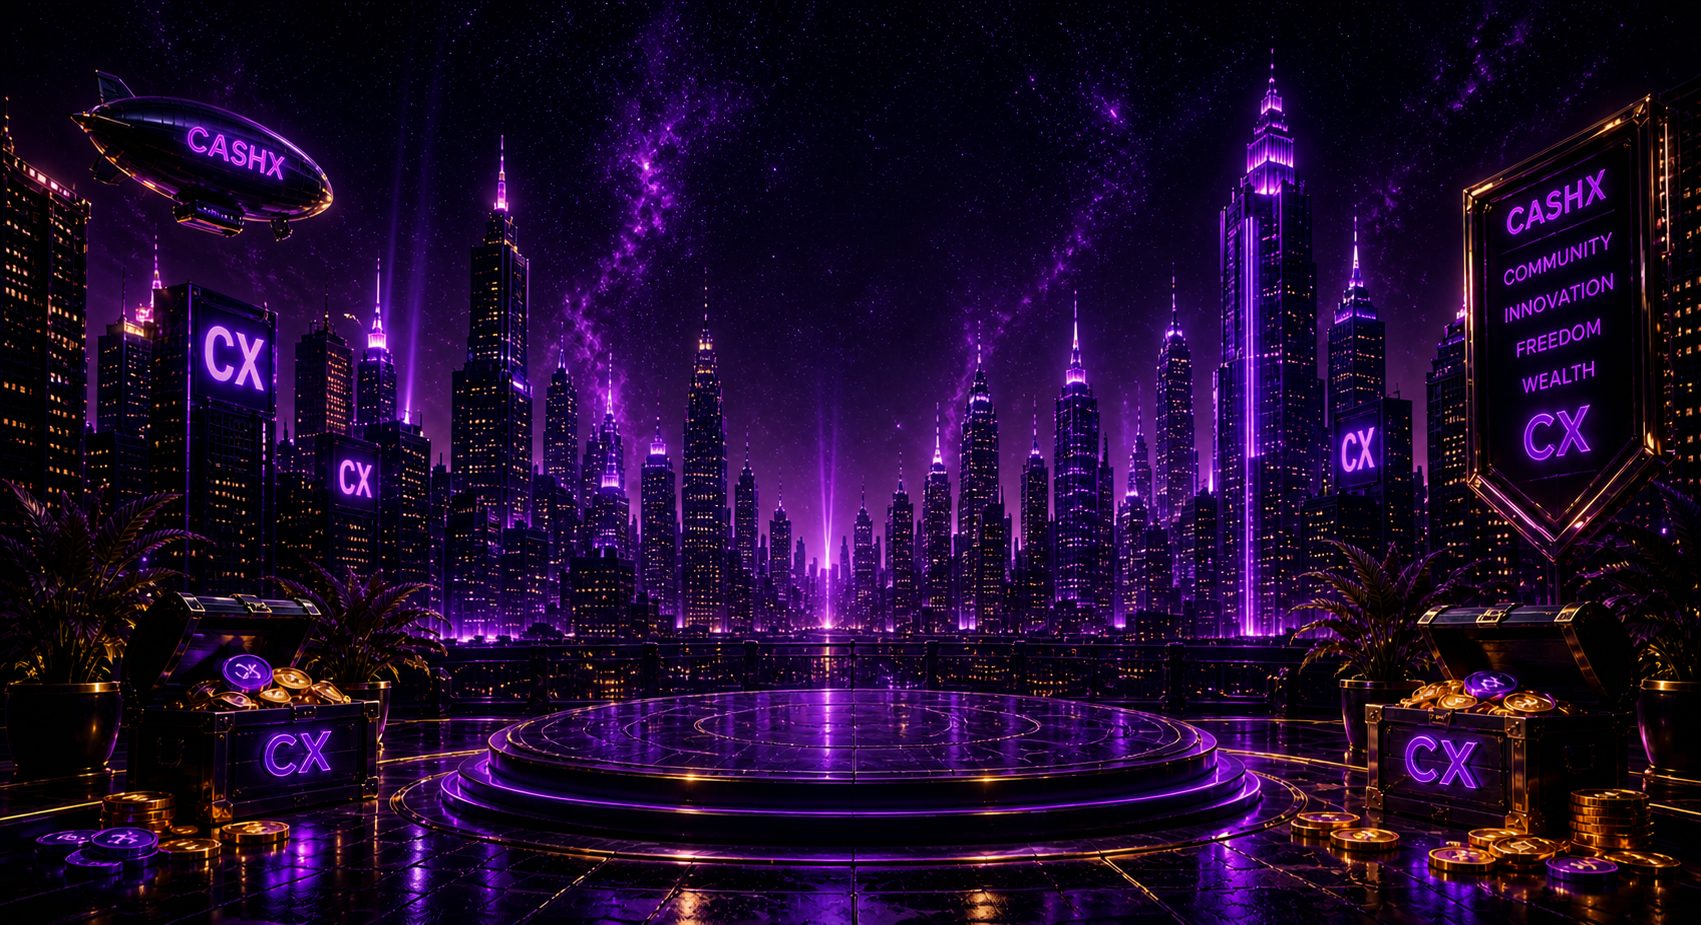
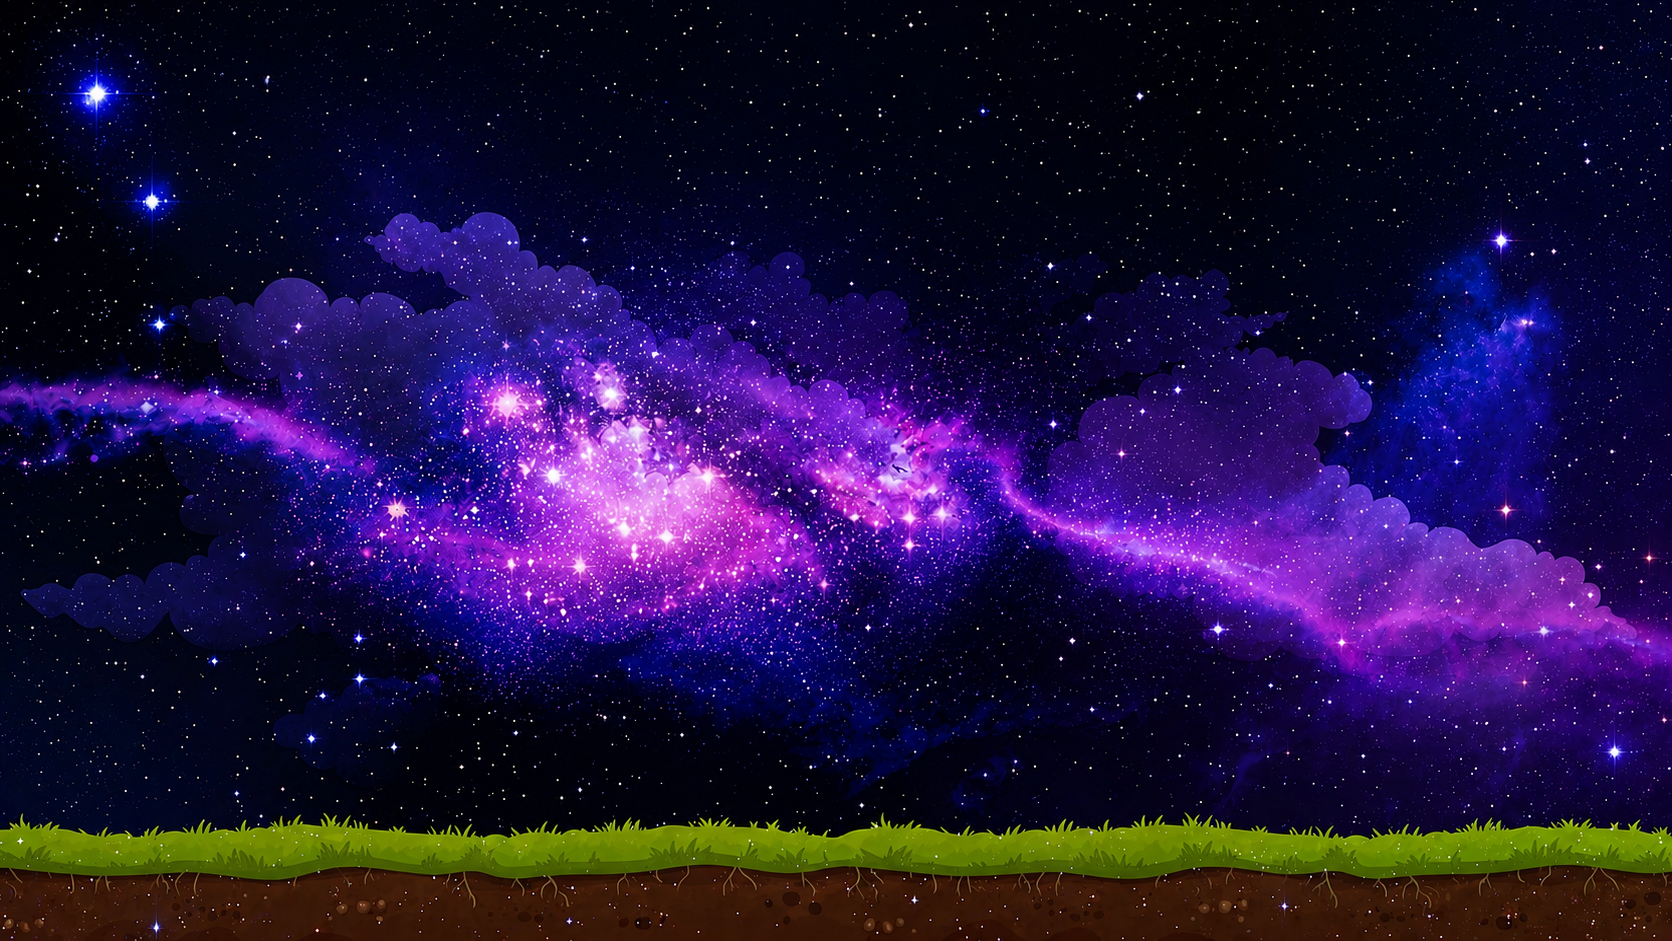
update

diff --git a/index.html b/index.html
@@ -9,10 +9,10 @@
   <link rel="preconnect" href="https://fonts.gstatic.com" crossorigin/>
   <link rel="preconnect" href="https://api.fontshare.com"/>
   <link rel="dns-prefetch" href="https://cdn.jsdelivr.net"/>
-<link href="https://fonts.googleapis.com/css2?family=Space+Mono:wght@400;700&family=DM+Sans:wght@400;500;600&family=Barlow+Condensed:wght@400;600;700;800&family=Barlow:wght@300;400;500&family=Michroma&family=Bebas+Neue&display=swap" rel="stylesheet" media="print" onload="this.media='all'"/>
+<link href="https://fonts.googleapis.com/css2?family=Space+Mono:wght@400;700&family=DM+Sans:wght@400;500;600&family=Barlow+Condensed:wght@400;600;700;800&family=Barlow:wght@300;400;500&family=Michroma&family=Bebas+Neue&family=Black+Han+Sans&family=Nunito:wght@900&family=Permanent+Marker&display=swap" rel="stylesheet" media="print" onload="this.media='all'"/>
 <link href="https://api.fontshare.com/v2/css?f[]=clash-display@600,700&display=swap" rel="stylesheet" media="print" onload="this.media='all'"/>
 <noscript>
-  <link href="https://fonts.googleapis.com/css2?family=Space+Mono:wght@400;700&family=DM+Sans:wght@400;500;600&family=Barlow+Condensed:wght@400;600;700;800&family=Barlow:wght@300;400;500&family=Michroma&family=Bebas+Neue&display=swap" rel="stylesheet"/>
+  <link href="https://fonts.googleapis.com/css2?family=Space+Mono:wght@400;700&family=DM+Sans:wght@400;500;600&family=Barlow+Condensed:wght@400;600;700;800&family=Barlow:wght@300;400;500&family=Michroma&family=Bebas+Neue&family=Black+Han+Sans&family=Nunito:wght@900&family=Permanent+Marker&display=swap" rel="stylesheet"/>
   <link href="https://api.fontshare.com/v2/css?f[]=clash-display@600,700&display=swap" rel="stylesheet"/>
 </noscript>
 <style>
@@ -122,19 +122,15 @@
 .hero{
   min-height:100vh;display:flex;align-items:center;justify-content:center;
   text-align:center;position:relative;overflow:hidden;padding:90px 40px 120px;
-  background:url('hero2-bg.png') center center / cover no-repeat;
+  background:url('hero2-bg.png') center bottom / cover no-repeat;
 }
 
 .hero::before{
   content:'';position:absolute;inset:0;pointer-events:none;z-index:1;
-  background:rgba(3,5,12,0.28);
+  background:rgba(3,5,12,0.55);
 }
 
-.hero::after{
-  content:'';position:absolute;bottom:0;left:0;right:0;
-  height:200px;pointer-events:none;z-index:3;
-  background:linear-gradient(to bottom, transparent 0%, var(--bg) 100%);
-}
+.hero::after{display:none}
 
 .hero-content{position:relative;z-index:2;display:flex;flex-direction:column;
   align-items:center;max-width:800px;margin:0 auto}
@@ -146,9 +142,10 @@
   background:#ff2222;animation:blink 2s infinite;flex-shrink:0;
   box-shadow:0 0 8px rgba(255,30,30,0.8)}
 @keyframes blink{0%,100%{opacity:1}50%{opacity:0.2}}
-.hero-title{font-family:'Bebas Neue',sans-serif;font-weight:400;
-  font-size:clamp(5.5rem,13vw,11rem);line-height:0.9;letter-spacing:0.05em;
-  text-transform:uppercase;margin-bottom:10px;color:#ffffff}
+.hero-title{font-family:'Permanent Marker',cursive;font-weight:400;
+  font-size:clamp(4rem,10vw,7.5rem);line-height:0.95;letter-spacing:4px;
+  text-transform:uppercase;margin-bottom:10px;color:#fff;
+  text-shadow:none}
 .hero-sub-name{display:block;font-size:0.22em;letter-spacing:0.15em;
   text-transform:uppercase;font-weight:600;margin-bottom:8px;
   background:var(--grad);-webkit-background-clip:text;-webkit-text-fill-color:transparent;
@@ -164,7 +161,8 @@
   background:rgba(255,160,50,0.05);white-space:nowrap}
 .hero-ctas{display:flex;gap:12px;flex-wrap:wrap;justify-content:center}
 
-.hero-banner-placeholder{width:460px;max-width:90%;height:auto;border-radius:18px;background:none;border:none;margin:0 auto 20px;display:flex;align-items:center;justify-content:center;overflow:hidden;animation:banner-float 3.5s ease-in-out infinite;box-shadow:0 0 18px rgba(155,109,255,0.6),0 0 40px rgba(155,109,255,0.35),0 0 70px rgba(155,109,255,0.15)}
+.hero-banner-placeholder{width:460px;max-width:90%;height:auto;border-radius:18px;background:none;border:none;margin:0 auto 20px;display:flex;align-items:center;justify-content:center;overflow:hidden;animation:banner-float 3.5s ease-in-out infinite;box-shadow:none;position:relative}
+.hero-banner-placeholder::after{content:'';position:absolute;inset:0;background:rgba(3,5,12,0.03);border-radius:18px;pointer-events:none}
 @keyframes banner-float{0%,100%{transform:translateY(0)}50%{transform:translateY(-12px)}}
 .hero-banner-img{width:100%;height:100%;object-fit:cover;border-radius:14px;display:block}
 .hero-social-links{display:flex;gap:24px;justify-content:center;flex-wrap:wrap;margin-top:14px}
@@ -225,7 +223,7 @@
 
 .promo-carousel-section{padding:38px 40px 24px;background:#050713;position:relative;z-index:2}
 .promo-carousel{
-  width:min(1320px,100%);
+  width:min(1320px,92%);
   margin:0 auto;
   display:flex;
   flex-direction:column;
@@ -233,7 +231,7 @@
 }
 .promo-track{
   position:relative;
-  aspect-ratio:3 / 1;
+  aspect-ratio:1320 / 260;
   border-radius:18px;
   overflow:hidden;
   border:1px solid rgba(200,85,247,0.32);
@@ -241,38 +239,26 @@
   box-shadow:0 24px 70px rgba(0,0,0,0.44);
 }
 .promo-track::before{
-  content:"AD";
+  content:"✦  Ad";
   position:absolute;
-  top:18px;
-  left:22px;
+  top:12px;
+  left:14px;
   z-index:3;
-  min-width:62px;
-  height:34px;
+  padding:0 16px;
+  height:36px;
   display:grid;
   place-items:center;
   border-radius:999px;
   color:#fff;
-  font-family:'Orbitron',sans-serif;
-  font-size:0.78rem;
-  font-weight:900;
-  letter-spacing:0.08em;
-  background:linear-gradient(135deg,#ff3f83 0%,#ff7a2f 58%,#ffc44f 100%);
-  border:1px solid rgba(255,255,255,0.28);
-  box-shadow:0 10px 24px rgba(255,87,62,0.32);
+  font-family:'DM Sans',sans-serif;
+  font-size:0.88rem;
+  font-weight:800;
+  letter-spacing:0.03em;
+  background:linear-gradient(135deg,#ff6a00 0%,#ff2d55 100%);
+  border:none;
+  box-shadow:0 4px 18px rgba(255,45,85,0.55);
 }
-.promo-track::after{
-  content:"";
-  position:absolute;
-  top:26px;
-  left:32px;
-  z-index:4;
-  width:5px;
-  height:5px;
-  border-radius:50%;
-  background:#fff6be;
-  box-shadow:9px -5px 0 rgba(255,255,255,0.85),9px 5px 0 rgba(255,255,255,0.72);
-  pointer-events:none;
-}
+.promo-track::after{display:none}
 .promo-slide{
   position:absolute;
   inset:0;
@@ -299,8 +285,8 @@
   padding:0 0 18px;
   background:transparent;
 }
-#farms-view .promo-carousel{width:min(1180px,92%)}
-#farms-view .promo-track{aspect-ratio:3.8 / 1}
+#farms-view .promo-carousel{width:min(1320px,92%)}
+#farms-view .promo-track{aspect-ratio:1320 / 260}
 @media(max-width:700px){
   .promo-carousel-section{padding:26px 16px 18px}
   #farms-view .promo-carousel-section{padding:0 0 14px}
@@ -379,7 +365,7 @@
     .loop-arrow{display:flex;align-items:center;padding:0 4px;color:var(--purple);font-size:1rem;flex-shrink:0}
 
     /* ── TOKENOMICS ── */
-    .tokenomics-section{max-width:1180px;padding-top:110px;padding-bottom:120px}
+    .tokenomics-section{max-width:1180px;padding-top:200px;padding-bottom:120px}
     .toko-grid{display:flex;flex-direction:column;gap:30px;position:relative}
     .toko-grid::before{content:'';position:absolute;inset:-44px -52px;z-index:-1;
       border:1px solid rgba(255,160,50,0.12);border-radius:18px;
@@ -444,8 +430,7 @@
       display:flex;align-items:center;justify-content:center;background:rgba(255,255,255,0.06);border:1px solid rgba(255,255,255,0.1)}
     .tf-title{font-weight:700;font-size:0.95rem;margin-bottom:5px;color:#fff}
     .tf-desc{font-size:0.82rem;color:var(--muted);line-height:1.6}
-    .treas-cycle{border:1px solid rgba(255,160,50,0.16);background:linear-gradient(180deg,rgba(21,27,46,0.9),rgba(10,14,26,0.72));
-      padding:28px;border-radius:14px;box-shadow:0 20px 70px rgba(0,0,0,0.22)}
+    .treas-cycle{background:none;border:none;padding:28px 0;box-shadow:none}
     .tc-title{font-family:'Space Mono',monospace;font-size:0.58rem;color:var(--muted);
       letter-spacing:0.12em;text-transform:uppercase;margin-bottom:18px}
     .cycle-step{display:grid;grid-template-columns:42px 1fr;gap:16px;align-items:flex-start;padding:16px 0;border-bottom:1px solid rgba(255,255,255,0.08)}
@@ -1244,7 +1229,7 @@
     .dash-stat-label{font-family:'Space Mono',monospace;font-size:0.54rem;letter-spacing:0.1em;text-transform:uppercase;color:var(--dash-muted);margin-bottom:10px;display:flex;align-items:center;gap:5px}
     .dash-stat-num{font-family:'DM Sans',sans-serif;font-size:1.8rem;font-weight:300;letter-spacing:-0.04em;color:#fff;line-height:1}
     .dash-stat-token{font-family:'Space Mono',monospace;font-size:0.62rem;color:#c864ff;text-transform:uppercase;letter-spacing:0.08em;margin-top:7px}
-    .dash-stat-sub{font-family:'Space Mono',monospace;font-size:0.58rem;color:var(--dash-faint);margin-top:5px;line-height:1.5}
+    .dash-stat-sub{font-family:'Space Mono',monospace;font-size:0.72rem;color:#fff;margin-top:5px;line-height:1.5}
     .dash-main-row{display:grid;grid-template-columns:minmax(0,1.9fr) minmax(240px,0.7fr);gap:14px;align-items:stretch;background:rgba(10,3,22,0.75);backdrop-filter:blur(14px);-webkit-backdrop-filter:blur(14px);border:1px solid rgba(200,100,255,0.2);border-radius:14px;padding:14px;box-shadow:0 8px 32px rgba(0,0,0,0.4)}
     .dash-stats-sidebar{display:flex;flex-direction:column;gap:10px}
     .dash-metric-card{background:linear-gradient(145deg,#2a2440 0%,#1b1730 58%,#151326 100%);border:1px solid rgba(155,109,255,0.32);border-radius:12px;box-shadow:inset 0 1px 0 rgba(255,255,255,0.07),0 12px 34px rgba(0,0,0,0.22);padding:16px 18px;flex-shrink:0}
@@ -1596,7 +1581,7 @@
     .farm-item{background:rgba(8,2,18,0.82);backdrop-filter:blur(14px);-webkit-backdrop-filter:blur(14px);
       border:1px solid rgba(200,100,255,0.25);
       border-radius:10px;overflow:hidden;display:flex;flex-direction:column;
-      box-shadow:0 8px 32px rgba(0,0,0,0.5),inset 0 1px 0 rgba(255,255,255,0.08)}
+      box-shadow:0 8px 32px rgba(0,0,0,0.5),inset 0 1px 0 rgba(255,255,255,0.08);min-width:0}
 
     /* CARD HEADER */
     .farm-hdr{display:flex;align-items:center;justify-content:space-between;
@@ -1833,16 +1818,16 @@
       font-weight:800;letter-spacing:0;color:#fff;text-transform:none}
     .farm-rich .farm-title-text{min-width:0}
     .farm-rich .farm-copy-lp{flex:0 0 20px}
-    .farm-proto-grid{display:grid;grid-template-columns:1fr 1fr;gap:7px}
+    .farm-proto-grid{display:grid;grid-template-columns:1fr 1fr;gap:7px;min-width:0}
     .farm-proto-metric{min-height:58px;background:rgba(255,255,255,0.045);
-      border:1px solid rgba(255,255,255,0.08);border-radius:7px;padding:8px 11px}
+      border:1px solid rgba(255,255,255,0.08);border-radius:7px;padding:8px 11px;min-width:0}
     .farm-proto-metric.wide{grid-column:1 / -1;min-height:36px;display:flex;align-items:center;justify-content:space-between}
     .farm-proto-label{font-family:'Michroma',sans-serif;font-size:0.5rem;letter-spacing:0.02em;
       text-transform:uppercase;color:rgba(255,255,255,0.32);margin-bottom:5px}
     .farm-proto-value{font-family:'Space Mono',monospace;font-size:0.78rem;font-weight:700;color:#f5f1ff}
     .farm-proto-value.apr{color:#00d477;font-size:0.94rem}
-    .farm-proto-value.long{font-size:0.72rem;white-space:nowrap;overflow:hidden;text-overflow:ellipsis}
-    .farm-proto-value.with-token{display:flex;align-items:center;gap:5px;white-space:nowrap}
+    .farm-proto-value.long{font-size:0.72rem;white-space:nowrap;overflow:hidden;text-overflow:ellipsis;max-width:100%;min-width:0}
+    .farm-proto-value.with-token{display:flex;align-items:center;gap:5px;white-space:nowrap;max-width:100%;min-width:0;overflow:hidden}
     .farm-proto-token{display:inline-flex;align-items:center;gap:4px;font-size:0.68rem;color:#f5f1ff}
     .farm-proto-token .farm-token-logo{width:13px;height:13px;box-shadow:none}
     .farm-proto-sub{font-family:'Space Mono',monospace;font-size:0.9rem;color:rgba(255,255,255,0.58);margin-top:8px}
@@ -1865,14 +1850,14 @@
       background:#080b10;
       border-color:#05070a;
       box-shadow:0 22px 58px rgba(0,0,0,0.48),inset 0 1px 0 rgba(255,255,255,0.035);
-      overflow:visible;
+      overflow:hidden;
       position:relative;
       z-index:0;
     }
     .farm-item.farm-rich.farm-design-proto:hover,
     .farm-item.farm-rich.farm-design-proto:focus-within{z-index:20}
-    .farm-design-proto .farm-hdr{border-bottom:none;padding-bottom:8px}
-    .farm-design-proto .farm-title{gap:13px}
+    .farm-design-proto .farm-hdr{border-bottom:none;padding-bottom:8px;flex-wrap:wrap;gap:6px}
+    .farm-design-proto .farm-title{gap:13px;flex:1;min-width:0}
     .farm-design-proto .farm-title > div:first-child{
       display:flex;
       align-items:center;
@@ -2111,7 +2096,7 @@
       grid-template-columns:1fr;
       gap:6px;
     }
-    .farm-design-proto .farm-proto-metric.farm-proto-rewards{overflow:visible}
+    .farm-design-proto .farm-proto-metric.farm-proto-rewards{overflow:hidden}
     .farm-design-proto .farm-rewards-tokenline{
       display:flex;
       align-items:center;
@@ -2359,10 +2344,10 @@
       .farm-rank-grid{grid-template-columns:1fr}
       .rv-grid{grid-template-columns:1fr}
     }
-    @media(max-width:1100px){
+    @media(max-width:1200px){
       .farm-row{grid-template-columns:repeat(2,minmax(0,1fr))}
     }
-    @media(max-width:700px){
+    @media(max-width:860px){
       .farm-row{grid-template-columns:1fr}
     }
     @media(max-width:560px){
@@ -2374,6 +2359,10 @@
     }
     @media(max-width:420px){
       .farm-design-proto .farm-lp-breakdown{grid-template-columns:1fr}
+    }
+    @media(max-width:500px){
+      .farm-design-proto .farm-proto-grid{grid-template-columns:1fr}
+      .farm-design-proto .farm-proto-actions{grid-template-columns:1fr 1fr}
     }
 
   /* ── LOADING SCREEN ── */
@@ -2452,7 +2441,7 @@
     <div class="hero-banner-placeholder">
       <img src="welcome-banner2.png" alt="Welcome to CashX" class="hero-banner-img"/>
     </div>
-    <h1 class="hero-title">CASH<span style="background:linear-gradient(135deg,#9b30d9,#d44dff);-webkit-background-clip:text;-webkit-text-fill-color:transparent;background-clip:text">X</span></h1>
+    <h1 class="hero-title" style="-webkit-text-fill-color:#9b30d9;color:#9b30d9">CASHX</h1>
   <div class="hero-social-links">
     <a href="https://t.me/+Ruw3dQPRTv00NDRl" target="_blank" class="hero-social-btn" >
       <svg width="32" height="32" viewBox="0 0 24 24" fill="none">
@@ -2489,7 +2478,7 @@
 
 
 <!-- TOKENOMICS -->
-<section class="section-wrap tokenomics-section" id="tokenomics" style="scroll-margin-top:90px">
+<section class="section-wrap tokenomics-section" id="tokenomics" style="scroll-margin-top:90px;background:none;position:relative;z-index:2">
   <div class="toko-grid">
     <div>
       <div class="toko-head fade">
@@ -4398,7 +4387,7 @@ set('src-community', Math.floor(totalBurned > 0 ? 3_700_000_000 - totalBurned : 
   <div class="promo-carousel" data-promo-carousel>
     <div class="promo-track">
       <a class="promo-slide active" href="#farms" aria-label="Refresh CashX Farms">
-        <img src="promo-cashx-farms.png" alt="CashX Farms">
+        <img src="promo-cashx-farms.png" alt="CashX Farms" style="object-position:center 35%">
       </a>
       <a class="promo-slide" href="https://cashx-casino-beta.netlify.app/" target="_blank" rel="noopener" aria-label="Open CashX Casino">
         <img src="promo-cashx-casino.png" alt="CashX Casino">
@@ -6079,6 +6068,19 @@ const PULSE_ID     = 369;
   }
 
   // ── Stake ──────────────────────────────────────────────────────────────────
+  function friendlyFarmError(msg) {
+    if (!msg) return 'Transaction failed';
+    const m = msg.toLowerCase();
+    if (m.includes('user rejected') || m.includes('user denied')) return 'Transaction cancelled';
+    if (m.includes('ds-math-sub-underflow') || m.includes('underflow')) return 'Approve your tokens first before staking';
+    if (m.includes('insufficient allowance') || m.includes('allowance')) return 'Approve your tokens first before staking';
+    if (m.includes('insufficient balance') || m.includes('exceeds balance')) return 'Insufficient balance';
+    if (m.includes('nonce')) return 'Transaction conflict — please try again';
+    if (m.includes('gas')) return 'Transaction ran out of gas — try again';
+    if (m.includes('network') || m.includes('timeout')) return 'Network error — please try again';
+    return 'Transaction failed — please try again';
+  }
+
   async function stakeFarm(pid) {
     const input = document.getElementById(`farm-input-${pid}`);
     const amountStr = input?.value?.trim();
@@ -6092,7 +6094,7 @@ const PULSE_ID     = 369;
     let amount;
     try { amount = ethers.parseUnits(amountStr, 18); } catch { return; }
     if (typeof r.walletLp === 'bigint' && amount > r.walletLp) {
-      setFarmStatus(pid, '✗ Amount is higher than your wallet LP balance. Click Max for wallet max, or Staked Max to unstake.', true);
+      setFarmStatus(pid, '✗ Amount exceeds wallet balance', true);
       setTimeout(() => setFarmStatus(pid, '', false), 6000);
       return;
     }
@@ -6122,7 +6124,7 @@ const PULSE_ID     = 369;
       setFarmStatus(pid, '', false);
       scheduleFarmRefresh(pid);
     } catch(err) {
-      const reason = err?.reason || err?.shortMessage || err?.message || 'Transaction failed';
+      const reason = friendlyFarmError(err?.reason || err?.shortMessage || err?.message || '');
       setFarmStatus(pid, `✗ ${reason}`, true);
       setTimeout(() => setFarmStatus(pid, '', false), 6000);
     } finally {
@@ -6146,7 +6148,7 @@ const PULSE_ID     = 369;
       if (!receipt) return;
       scheduleFarmRefresh(pid);
     } catch(err) {
-      const reason = err?.reason || err?.shortMessage || err?.message || 'Approval failed';
+      const reason = friendlyFarmError(err?.reason || err?.shortMessage || err?.message || '');
       setFarmStatus(pid, `✗ ${reason}`, true);
       setTimeout(() => setFarmStatus(pid, '', false), 6000);
     } finally {
@@ -6168,7 +6170,7 @@ const PULSE_ID     = 369;
     let amount;
     try { amount = ethers.parseUnits(amountStr, 18); } catch { return; }
     if (typeof r.staked === 'bigint' && amount > r.staked) {
-      setFarmStatus(pid, '✗ Amount is higher than your staked LP balance. Click Staked Max to unstake your full amount.', true);
+      setFarmStatus(pid, '✗ Amount exceeds staked balance', true);
       setTimeout(() => setFarmStatus(pid, '', false), 6000);
       return;
     }
@@ -6191,7 +6193,7 @@ const PULSE_ID     = 369;
       setFarmStatus(pid, '', false);
       scheduleFarmRefresh(pid);
     } catch(err) {
-      const reason = err?.reason || err?.shortMessage || err?.message || 'Transaction failed';
+      const reason = friendlyFarmError(err?.reason || err?.shortMessage || err?.message || '');
       setFarmStatus(pid, `✗ ${reason}`, true);
       setTimeout(() => setFarmStatus(pid, '', false), 6000);
     } finally {
@@ -6227,7 +6229,7 @@ const PULSE_ID     = 369;
     } catch(err) {
       console.error(`Claim failed for ${label}:`, err);
       btn.classList.remove('claiming');
-      const reason = err?.reason || err?.shortMessage || err?.message || 'Transaction failed';
+      const reason = friendlyFarmError(err?.reason || err?.shortMessage || err?.message || '');
       setFarmStatus(pid, `✗ ${reason}`, true);
       setTimeout(() => setFarmStatus(pid, '', false), 6000);
     } finally {